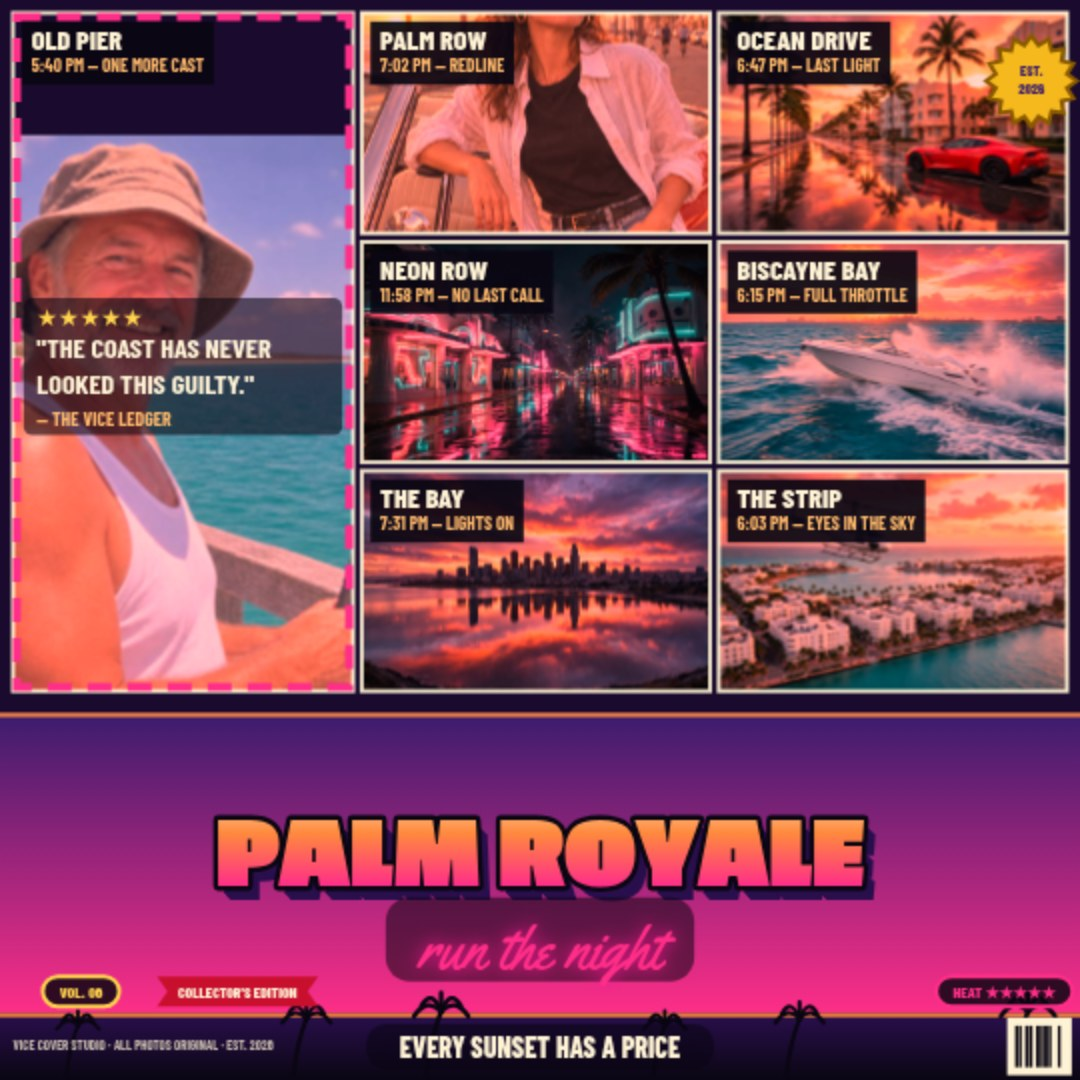
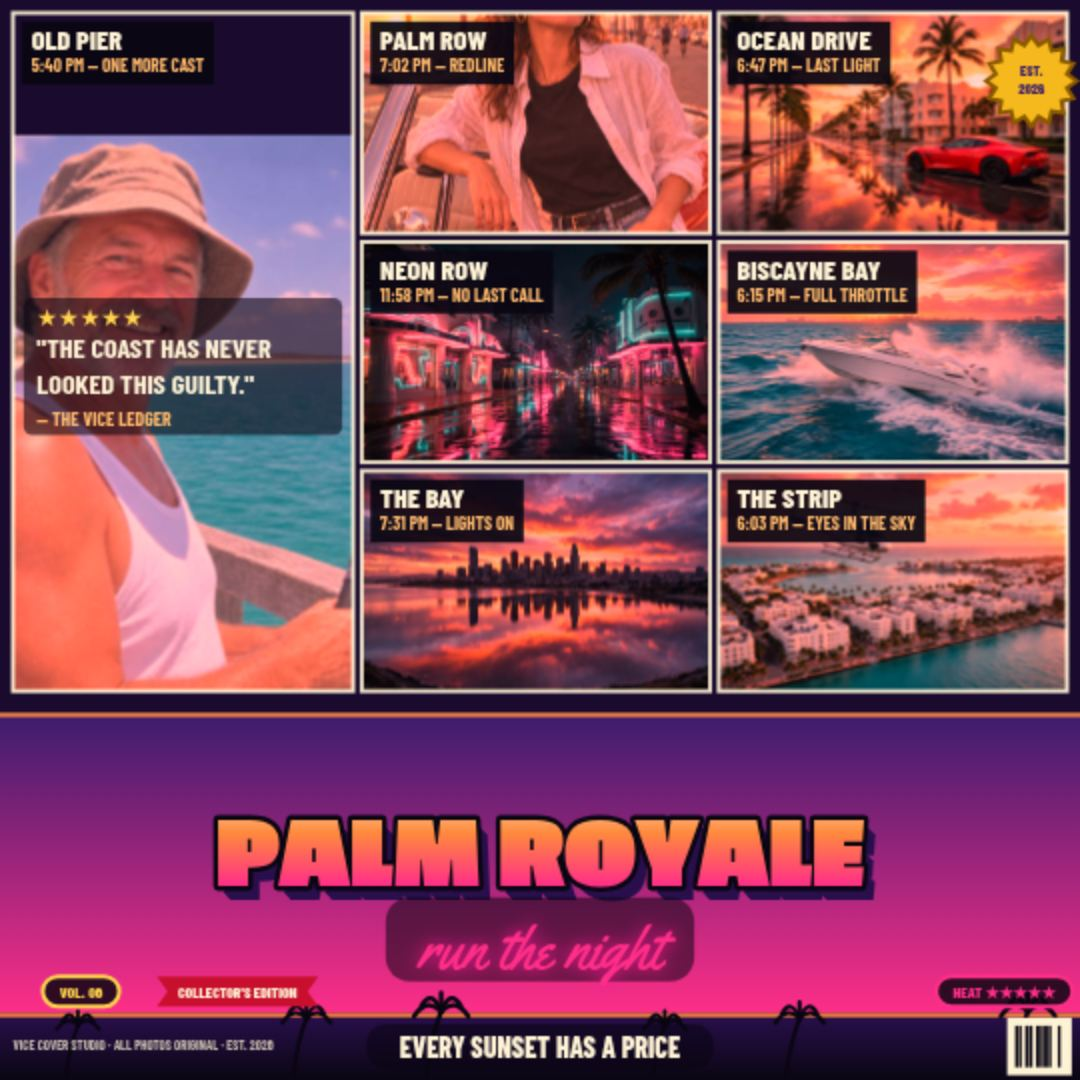
Fix: keep the editor selection outline out of cover screenshots and exports
highlightSelected() drew the pink dashed outline onto the preview canvas
on every render, so the ?shot= cover screenshots baked it into the
hero panel. Gate it behind an inShot flag (set when ?shot= is present);
the outline still shows in the interactive editor, and PNG export was
already clean (renderCover on a fresh canvas). Re-took all 4 shots;
no dashed border in any of them.

Changed region(s): [[0.0, 0.0, 0.3361, 0.6417]]

diff --git a/app/src/main.js b/app/src/main.js
@@ -20,6 +20,9 @@ let state = defaultState('nine', 'sunset');
 let size = SIZES[0];
 let selected = 0;
 let dragging = null;
+// True while rendering a screenshot (?shot=…): the selection outline is
+// an editor-only aid and must never be baked into a shot or an export.
+let inShot = false;
 
 const $ = (id) => document.getElementById(id);
 const preview = $('preview');
@@ -56,7 +59,7 @@ function render() {
   }
   pctx.clearRect(0, 0, w, h);
   drawCover(pctx, state, images, w, h);
-  highlightSelected();
+  if (!inShot) highlightSelected();
 }
 
 // Outlines the selected panel on the preview so the user sees which one
@@ -326,6 +329,7 @@ async function init() {
   syncPanelBox();
   await loadAll();
   const query = new URLSearchParams(location.search);
+  inShot = query.has('shot');
   if (query.has('shot')) {
     const layoutId = query.get('layout');
     if (layoutId && LAYOUTS[layoutId]) {
